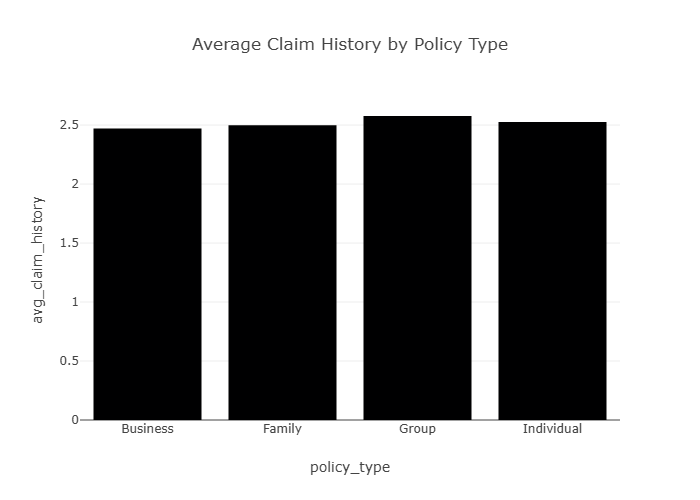
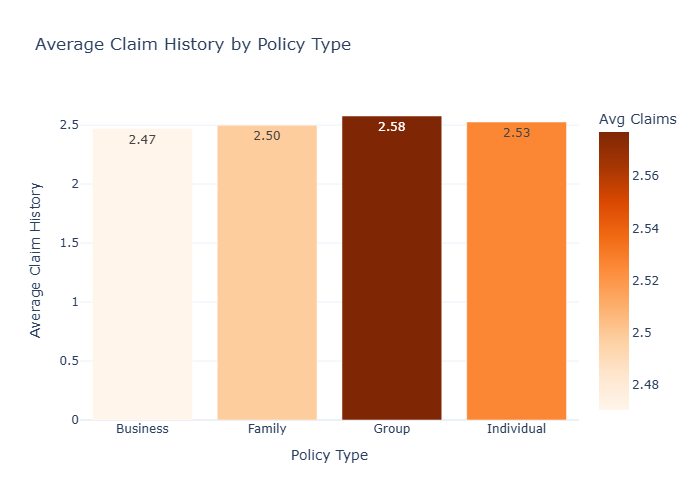
Improve dashboard chart colors and styling

diff --git a/dashboard/app.py b/dashboard/app.py
@@ -3,6 +3,22 @@ import pandas as pd
 import plotly.express as px
 from pathlib import Path
 
+# -------------------------------
+# Professional dashboard styling
+# -------------------------------
+
+CUSTOM_COLORS = {
+    "Very Low": "#1F77B4",   # professional blue
+    "Low": "#2CA02C",        # green
+    "Medium": "#FFB000",     # amber
+    "High": "#D62728"        # red
+}
+
+CONTINUOUS_BLUE = "Blues"
+CONTINUOUS_TEAL = "Tealgrn"
+CONTINUOUS_ORANGE = "Oranges"
+PLOT_TEMPLATE = "plotly_white"
+
 # Page setup
 st.set_page_config(
     page_title="Insurance Risk Analytics Dashboard",
@@ -31,8 +47,8 @@ st.sidebar.header("Filters")
 
 policy_filter = st.sidebar.multiselect(
     "Select Policy Type",
-    options=df["policy_type"].unique(),
-    default=df["policy_type"].unique()
+    options=sorted(df["policy_type"].dropna().unique()),
+    default=sorted(df["policy_type"].dropna().unique())
 )
 
 risk_filter = st.sidebar.multiselect(
@@ -45,6 +61,11 @@ filtered_df = df[
     (df["policy_type"].isin(policy_filter)) &
     (df["risk_category"].isin(risk_filter))
 ]
+
+# Safety check
+if filtered_df.empty:
+    st.warning("No data available for the selected filters.")
+    st.stop()
 
 # KPI section
 st.subheader("Executive Overview")
@@ -59,7 +80,10 @@ col5.metric("Avg Credit Score", f"{filtered_df['credit_score'].mean():.0f}")
 
 st.divider()
 
+# -------------------------------
 # Risk analysis
+# -------------------------------
+
 st.subheader("Risk Analysis")
 
 col1, col2 = st.columns(2)
@@ -72,8 +96,15 @@ with col1:
         risk_count,
         x="risk_category",
         y="count",
-        title="Customer Count by Risk Category"
+        color="risk_category",
+        color_discrete_map=CUSTOM_COLORS,
+        title="Customer Count by Risk Category",
+        template=PLOT_TEMPLATE,
+        text="count"
     )
+
+    fig.update_layout(showlegend=False)
+    fig.update_traces(textposition="outside")
 
     st.plotly_chart(fig, use_container_width=True)
     fig.write_image(images_path / "risk_distribution.png")
@@ -83,13 +114,21 @@ with col2:
         filtered_df,
         x="risk_category",
         y="premium_amount",
-        title="Premium Amount by Risk Category"
+        color="risk_category",
+        color_discrete_map=CUSTOM_COLORS,
+        title="Premium Amount by Risk Category",
+        template=PLOT_TEMPLATE
     )
+
+    fig.update_layout(showlegend=False)
 
     st.plotly_chart(fig, use_container_width=True)
     fig.write_image(images_path / "premium_by_risk.png")
 
+# -------------------------------
 # Pricing analysis
+# -------------------------------
+
 st.subheader("Pricing Analysis")
 
 col1, col2 = st.columns(2)
@@ -106,7 +145,16 @@ with col1:
         x="policy_type",
         y="avg_premium",
         color="avg_risk",
-        title="Average Premium by Policy Type and Risk"
+        color_continuous_scale=CONTINUOUS_BLUE,
+        title="Average Premium by Policy Type and Risk",
+        template=PLOT_TEMPLATE,
+        text_auto=".0f"
+    )
+
+    fig.update_layout(
+        xaxis_title="Policy Type",
+        yaxis_title="Average Premium",
+        coloraxis_colorbar_title="Avg Risk"
     )
 
     st.plotly_chart(fig, use_container_width=True)
@@ -120,16 +168,26 @@ with col2:
         x="coverage_amount",
         y="premium_amount",
         color="risk_category",
+        color_discrete_map=CUSTOM_COLORS,
         title="Coverage Amount vs Premium Amount",
-        opacity=0.3
+        opacity=0.45,
+        template=PLOT_TEMPLATE
     )
 
-    fig.update_traces(marker=dict(size=4))
+    fig.update_traces(marker=dict(size=5, line=dict(width=0.4, color="white")))
+    fig.update_layout(
+        xaxis_title="Coverage Amount",
+        yaxis_title="Premium Amount",
+        legend_title="Risk Category"
+    )
 
     st.plotly_chart(fig, use_container_width=True)
     fig.write_image(images_path / "coverage_vs_premium.png")
 
+# -------------------------------
 # Claims behavior
+# -------------------------------
+
 st.subheader("Claims Behavior")
 
 col1, col2 = st.columns(2)
@@ -143,7 +201,17 @@ with col1:
         claims_by_policy,
         x="policy_type",
         y="avg_claim_history",
-        title="Average Claim History by Policy Type"
+        color="avg_claim_history",
+        color_continuous_scale=CONTINUOUS_ORANGE,
+        title="Average Claim History by Policy Type",
+        template=PLOT_TEMPLATE,
+        text_auto=".2f"
+    )
+
+    fig.update_layout(
+        xaxis_title="Policy Type",
+        yaxis_title="Average Claim History",
+        coloraxis_colorbar_title="Avg Claims"
     )
 
     st.plotly_chart(fig, use_container_width=True)
@@ -154,13 +222,21 @@ with col2:
         filtered_df,
         x="risk_category",
         y="claim_history",
-        title="Claim History by Risk Category"
+        color="risk_category",
+        color_discrete_map=CUSTOM_COLORS,
+        title="Claim History by Risk Category",
+        template=PLOT_TEMPLATE
     )
+
+    fig.update_layout(showlegend=False)
 
     st.plotly_chart(fig, use_container_width=True)
     fig.write_image(images_path / "claims_by_risk.png")
 
+# -------------------------------
 # Customer segmentation
+# -------------------------------
+
 st.subheader("Customer Segmentation")
 
 col1, col2 = st.columns(2)
@@ -177,8 +253,19 @@ with col1:
         x="segmentation_group",
         y="customers",
         color="avg_risk",
-        title="Customer Segments by Size and Risk"
+        color_continuous_scale=CONTINUOUS_TEAL,
+        title="Customer Segments by Size and Risk",
+        template=PLOT_TEMPLATE,
+        text="customers"
     )
+
+    fig.update_layout(
+        xaxis_title="Segmentation Group",
+        yaxis_title="Number of Customers",
+        coloraxis_colorbar_title="Avg Risk"
+    )
+
+    fig.update_traces(textposition="outside")
 
     st.plotly_chart(fig, use_container_width=True)
     fig.write_image(images_path / "customer_segments.png")
@@ -191,14 +278,26 @@ with col2:
         x="credit_score",
         y="claim_history",
         color="risk_category",
+        color_discrete_map=CUSTOM_COLORS,
         title="Credit Score vs Claim History",
-        opacity=0.6
+        opacity=0.55,
+        template=PLOT_TEMPLATE
+    )
+
+    fig.update_traces(marker=dict(size=5, line=dict(width=0.4, color="white")))
+    fig.update_layout(
+        xaxis_title="Credit Score",
+        yaxis_title="Claim History",
+        legend_title="Risk Category"
     )
 
     st.plotly_chart(fig, use_container_width=True)
     fig.write_image(images_path / "credit_vs_claims.png")
 
+# -------------------------------
 # Age analysis
+# -------------------------------
+
 st.subheader("Age and Risk Analysis")
 
 age_analysis = filtered_df.groupby("age_group", as_index=False).agg(
@@ -212,13 +311,26 @@ fig = px.line(
     x="age_group",
     y=["avg_premium", "avg_risk", "avg_claim_history"],
     markers=True,
-    title="Premium, Risk, and Claim History by Age Group"
+    title="Premium, Risk, and Claim History by Age Group",
+    template=PLOT_TEMPLATE,
+    color_discrete_sequence=["#1F77B4", "#D62728", "#FFB000"]
 )
+
+fig.update_layout(
+    xaxis_title="Age Group",
+    yaxis_title="Value",
+    legend_title="Metric"
+)
+
+fig.update_traces(line=dict(width=3), marker=dict(size=8))
 
 st.plotly_chart(fig, use_container_width=True)
 fig.write_image(images_path / "age_group_analysis.png")
 
+# -------------------------------
 # Business insights
+# -------------------------------
+
 st.subheader("Business Insights")
 
 highest_risk_policy = pricing.sort_values("avg_risk", ascending=False).iloc[0]
